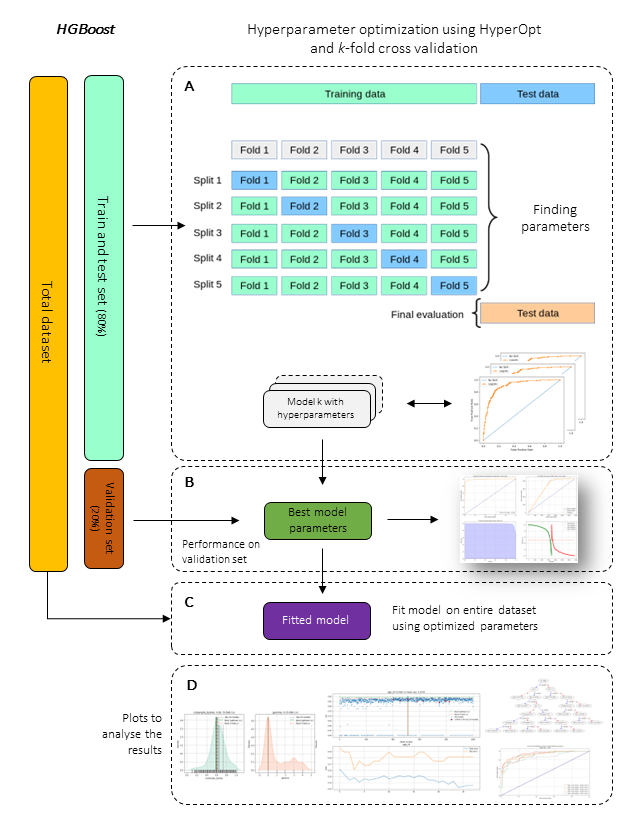
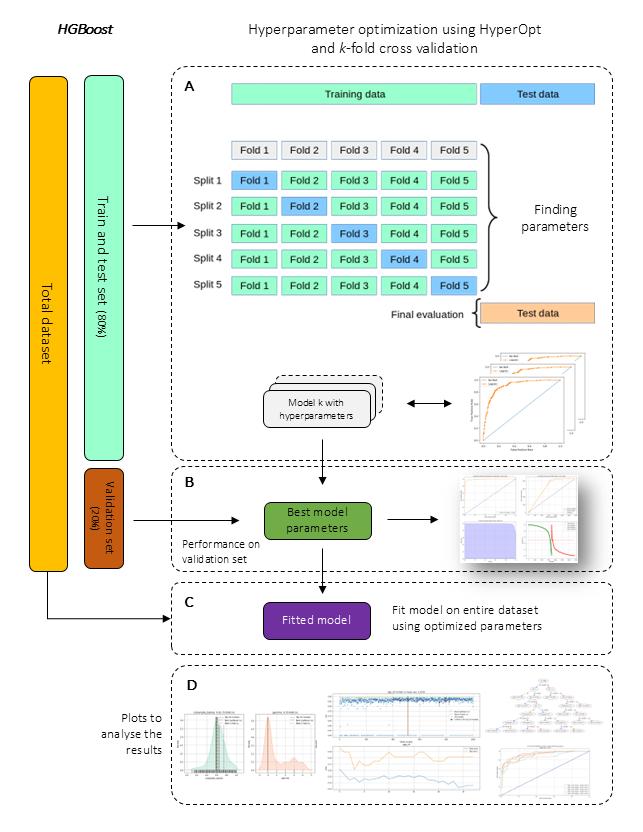
2.0.1

diff --git a/hgboost/examples.py b/hgboost/examples.py
@@ -1,8 +1,3 @@
-# %%
-
-
-
-
 # %% CLASSIFICATION TWO-CLASS #####
 
 # Import
@@ -196,7 +191,7 @@ del df['Parch']
 X = hgb.preprocessing(df)
 
 # Fit best model with desired evaluation metric:
-results = hgb.xgboost(X, y, method='xgb_clf_multi', eval_metric='kappa')
+results = hgb.xgboost(X, y, method='xgb_clf_multi', eval_metric='f1')
 # [hgboost] >Start hgboost classification..
 # [hgboost] >Collecting xgb_clf parameters
 # [hgboost] >Number of variables in search space is [10], loss function: [kappa]
@@ -230,7 +225,7 @@ import numpy as np
 hgb = hgboost(max_eval=250, threshold=0.5, cv=5, test_size=0.2, val_size=0.2, top_cv_evals=10, random_state=None)
 
 # Load example data set
-df = hgb.import_example()
+df = hgb.import_example('titanic')
 y = df['Age'].values
 del df['Age']
 I = ~np.isnan(y)

diff --git a/hgboost/hgboost.py b/hgboost/hgboost.py
@@ -23,8 +23,12 @@ import matplotlib.pyplot as plt
 import seaborn as sns
 
 from sklearn.model_selection import train_test_split, cross_val_score
-from hyperopt import fmin, tpe, STATUS_OK, Trials, hp
 import xgboost as xgb
+
+try:
+    from hyperopt import fmin, tpe, STATUS_OK, Trials, hp
+except ImportError:
+    raise Exception('hyperopt version > 0.2.7 needs to be installed. Alternative is to install from GitHub source: pip install -U git+https://github.com/hyperopt/hyperopt')
 
 try:
     import catboost as ctb

diff --git a/hgboost/__init__.py b/hgboost/__init__.py
@@ -15,7 +15,7 @@ _logger.propagate = True  # allow submodules to inherit this handler
 
 __author__ = 'Erdogan Tasksen'
 __email__ = '[email redacted]'
-__version__ = '2.0.0'
+__version__ = '2.0.1'
 
 # module level doc-string
 __doc__ = """